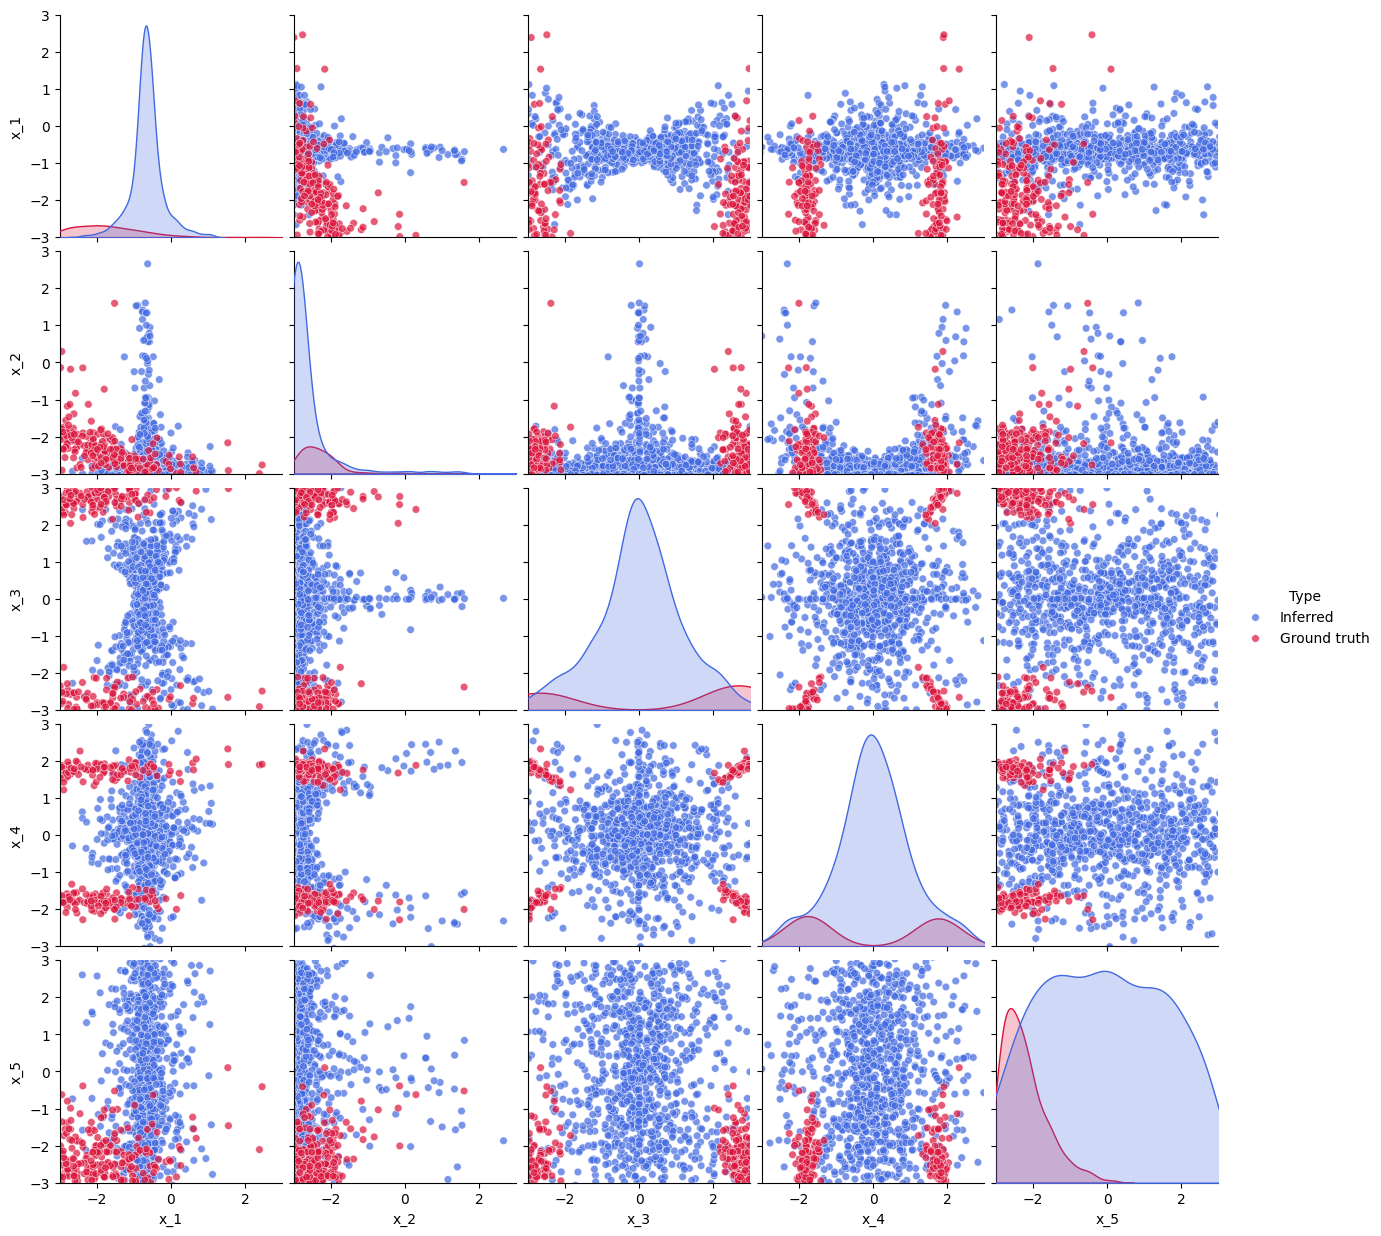
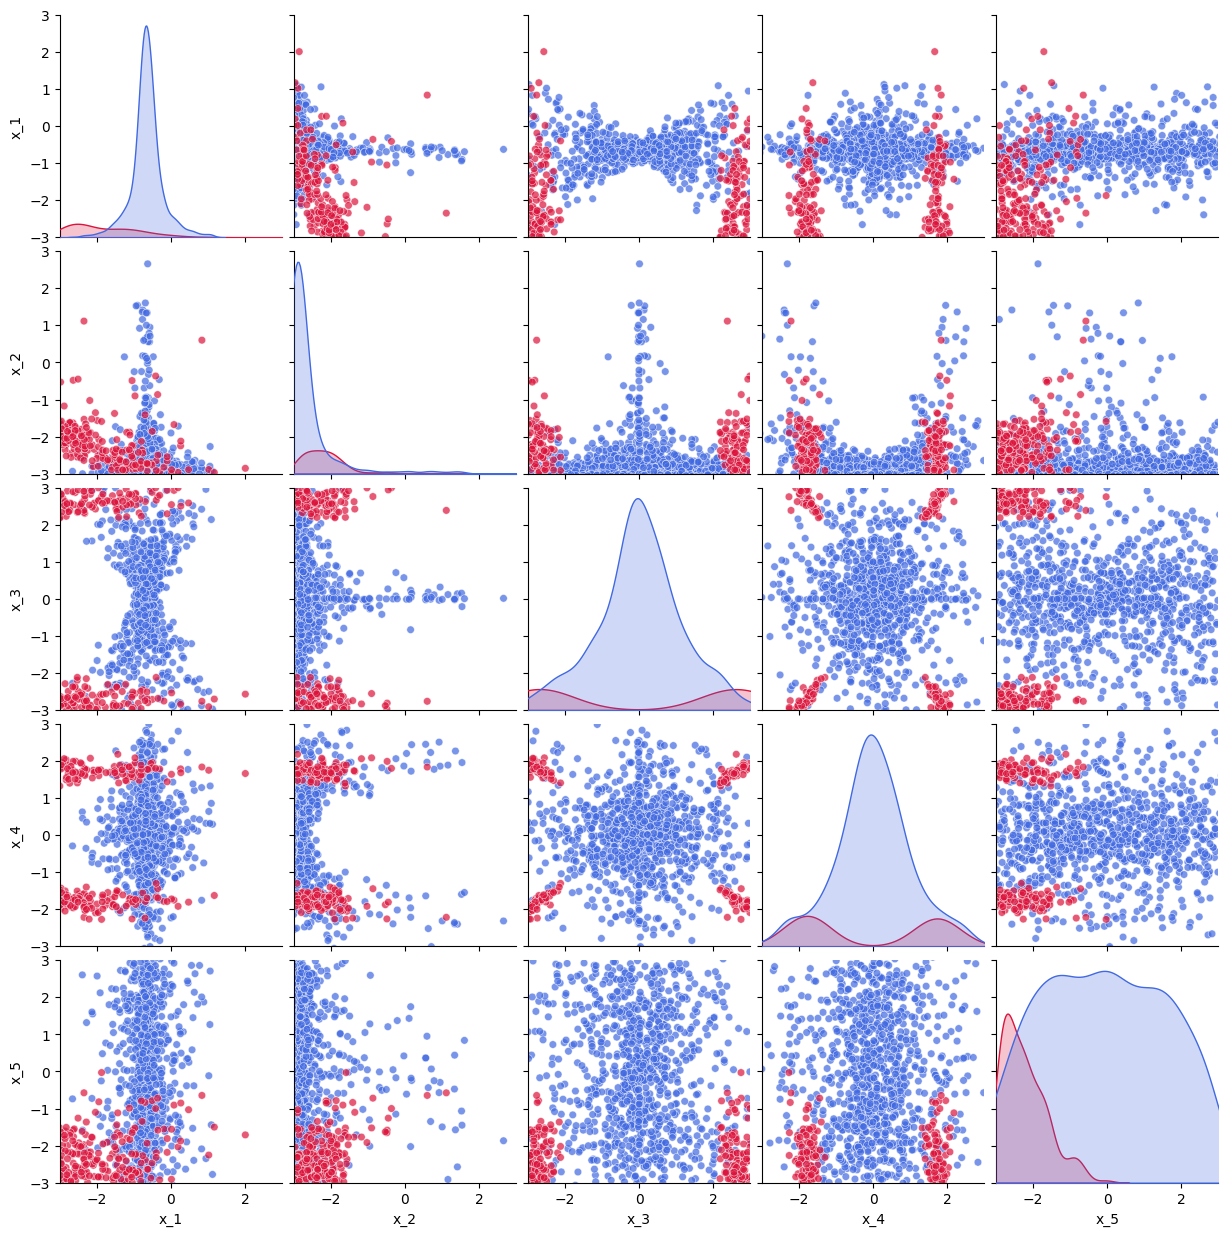
camera-ready: reviewer changes + clean code environment
Paper (camera-ready/):
- Added BOLFI, Simformer (Gloeckler 2024), Vetter et al. 2025 to related work
- Removed legend from all SLCP pairwise posterior figures (obs_0-3 + selected)
- Updated SLCP caption to describe blue/red color coding instead

Code (code/):
- Removed elfi dependency (broken with numpy>=2; not needed for experiments)
- Fixed sbi+sbibm conflict: install sbi>=0.22 first, then sbibm --no-deps
- Added show_legend parameter to visualization.plot_pairwise_posterior
- Cleaned up requirements.txt; added requirements-dev.txt and LICENSE
- Added regen_pairwise_figures.py script to reproduce SLCP figures

diff --git a/code/scripts/sbibm/regen_pairwise_figures.py b/code/scripts/sbibm/regen_pairwise_figures.py
@@ -1,0 +1,88 @@
+"""
+Regenerate pairwise posterior figures for SLCP with improved legends:
+- SLCP obs_0..obs_3: no legend (redundant panels)
+- SLCP selected: legend kept
+"""
+import sys, os, shutil
+import numpy as np
+import pandas as pd
+import seaborn as sns
+import matplotlib
+matplotlib.use("Agg")
+import matplotlib.pyplot as plt
+
+
+def plot_pairwise_posterior(samples, limits, samples_gt, show_legend, savefig):
+    dim = samples.shape[1]
+    cols = [f"x_{i+1}" for i in range(dim)]
+    df = pd.DataFrame(samples, columns=cols)
+    df["Type"] = "Inferred"
+    df_gt = pd.DataFrame(samples_gt, columns=cols)
+    df_gt["Type"] = "Ground truth"
+    df_all = pd.concat([df, df_gt], ignore_index=True)
+
+    g = sns.pairplot(
+        data=df_all, hue="Type", vars=cols,
+        kind="scatter", diag_kind="kde",
+        palette={"Inferred": "royalblue", "Ground truth": "crimson"},
+        plot_kws={"alpha": 0.7, "s": 30},
+    )
+    for ax in g.axes.flat:
+        if ax is not None:
+            for collection in ax.collections:
+                if collection.get_label() == "Inferred":
+                    collection.set_alpha(0.7)
+                elif collection.get_label() == "Ground truth":
+                    collection.set_alpha(0.2)
+                    collection.set_sizes([10])
+    if limits is not None:
+        for i in range(dim):
+            for j in range(dim):
+                if i != j:
+                    g.axes[i, j].set_xlim(limits)
+                    g.axes[i, j].set_ylim(limits)
+                else:
+                    g.axes[i, j].set_xlim(limits)
+    if not show_legend:
+        if g.legend is not None:
+            g.legend.remove()
+        # seaborn sometimes stores the legend on the figure instead
+        if g.fig.legends:
+            for leg in g.fig.legends:
+                leg.remove()
+    g.savefig(savefig, bbox_inches="tight")
+    plt.close()
+
+
+# ---- SLCP ground truth from sbibm ----
+import sbibm
+exp_num = 2
+budget = 30_000
+nof_samples_per_obs = 1000
+
+results_path = f"../../results/sbibm/slcp/budget_{budget}/exp_{exp_num}"
+camera_ready_path = "../../../camera-ready/figures/sbibm/slcp"
+os.makedirs(camera_ready_path, exist_ok=True)
+
+samples_total   = np.loadtxt(os.path.join(results_path, "samples_total.csv"),   delimiter=",")
+samples_selected = np.loadtxt(os.path.join(results_path, "samples_selected.csv"), delimiter=",")
+
+task = sbibm.get_task("slcp")
+samples_gt = task.get_reference_posterior_samples(exp_num).numpy()[:200]
+
+# Per-observation panels: no legend
+for jj in range(4):
+    samples_cur = samples_total[jj * nof_samples_per_obs:(jj + 1) * nof_samples_per_obs]
+    fname = f"pairwise_posterior_obs_{jj}.png"
+    out = os.path.join(results_path, fname)
+    plot_pairwise_posterior(samples_cur, [-3., 3.], samples_gt, show_legend=False, savefig=out)
+    shutil.copyfile(out, os.path.join(camera_ready_path, fname))
+    print(f"Saved {fname}")
+
+# Selected panel: keep legend
+out = os.path.join(results_path, "pairwise_posterior_selected.png")
+plot_pairwise_posterior(samples_selected, [-3., 3.], samples_gt, show_legend=False, savefig=out)
+shutil.copyfile(out, os.path.join(camera_ready_path, "pairwise_posterior_selected.png"))
+print("Saved pairwise_posterior_selected.png")
+
+print("SLCP done.")

diff --git a/camera-ready/main.tex b/camera-ready/main.tex
@@ -534,7 +534,7 @@ Appendix~\ref{app-sec:experiments} provides additional details on the setup, met
     \includegraphics[width=.19\linewidth]{figures/sbibm/slcp/pairwise_posterior_obs_2}
     \includegraphics[width=.19\linewidth]{figures/sbibm/slcp/pairwise_posterior_obs_3}
     \includegraphics[width=.19\linewidth]{figures/sbibm/slcp/pairwise_posterior_selected}
-    \caption{SLCP pairwise posteriors for multiple observations. The four left panels show proposal samples per observation within $\epsilon$-distance, while the rightmost panel shows the subset of samples selected as closest across all observations using the \rromc~weighting scheme (Eq.~\ref{eq:rromc_weight}).
+    \caption{SLCP pairwise posteriors for multiple observations; blue: \rromc~samples, red: ground-truth samples. The four left panels show proposal samples per observation within $\epsilon$-distance, while the rightmost panel shows the subset of samples selected as closest across all observations using the \rromc~weighting scheme (Eq.~\ref{eq:rromc_weight}).
     }
     \label{fig:slcp_posterior}
 \end{figure*}

diff --git a/code/lfi/visualization.py b/code/lfi/visualization.py
@@ -11,7 +11,8 @@ def plot_pairwise_posterior(
         title: typing.Optional[str]=None,
         savefig: typing.Optional[str]=None,
         samples_gt: typing.Optional[np.ndarray]=None,
-        max_dims_to_plot: int = 10 
+        max_dims_to_plot: int = 10,
+        show_legend: bool = True,
 ):
     """
     Plots pairwise relationships and marginal distributions of posterior samples.
@@ -78,6 +79,10 @@ def plot_pairwise_posterior(
                     collection.set_alpha(0.2)  # More transparent
                     collection.set_sizes([10])  # Optional: Smaller points
         
+    # Show or hide legend
+    if not show_legend:
+        g.legend.remove()
+
     # Add the title if provided
     if title:
         g.fig.suptitle(title)

diff --git a/code/lfi/utils.py b/code/lfi/utils.py
@@ -23,7 +23,6 @@ INFERENCE_TO_CLASS = {
     'npe_a_single_round': lfi.inference.from_sbi.NPEASingleRound,
     'npe_c_single_round': lfi.inference.from_sbi.NPECSingleRound,
     'fmpe_single_round': lfi.inference.from_sbi.FMPESingleRound,
-    'elfi_rejection_sampling': lfi.inference.from_elfi.RejectionSampling,
     #'mdn': lfi.inference.custom.MixtureDensityNetwork,
 }
 

diff --git a/code/lfi/__init__.py b/code/lfi/__init__.py
@@ -1,1 +1,1 @@
-from lfi import simulators, priors, utils, inference, observations, evaluation, ground_truth, visualization, experiment
+from lfi import simulators, priors, utils, inference, observations, evaluation, ground_truth, visualization

diff --git a/code/lfi/inference/__init__.py b/code/lfi/inference/__init__.py
@@ -1,4 +1,4 @@
 # from lfi import config  # noqa: F401
 # from lfi import inference  # noqa: F401f
 
-from lfi.inference import from_sbi, base, from_sbi_abc, from_elfi, r2omc
+from lfi.inference import from_sbi, from_sbi_abc, base, r2omc

diff --git a/code/lfi/priors.py b/code/lfi/priors.py
@@ -8,7 +8,6 @@ import sbi
 import sbi.utils
 import jax
 import jax.numpy as jnp
-import elfi
 import tensorflow_datasets as tfds
 from sklearn.neighbors import KernelDensity
 

diff --git a/code/README.md b/code/README.md
@@ -17,8 +17,15 @@ requirements.txt
 ```bash
 conda create -n lfi python=3.10
 conda activate lfi
+# Step 1: install CPU-only PyTorch (prevents sbi from pulling CUDA)
+pip install torch --index-url https://download.pytorch.org/whl/cpu
+# Step 2: install sbi (>=0.22) and pyabc before sbibm
+pip install sbi pyabc
+# Step 3: install sbibm without deps (it pins sbi<0.22, but sbi>=0.22 works)
+pip install sbibm --no-deps
+# Step 4: install remaining dependencies (run from this directory)
+cd code
 pip install -r requirements.txt
-pip install -e .
 ```
 
 ## Reproducing Experiments
